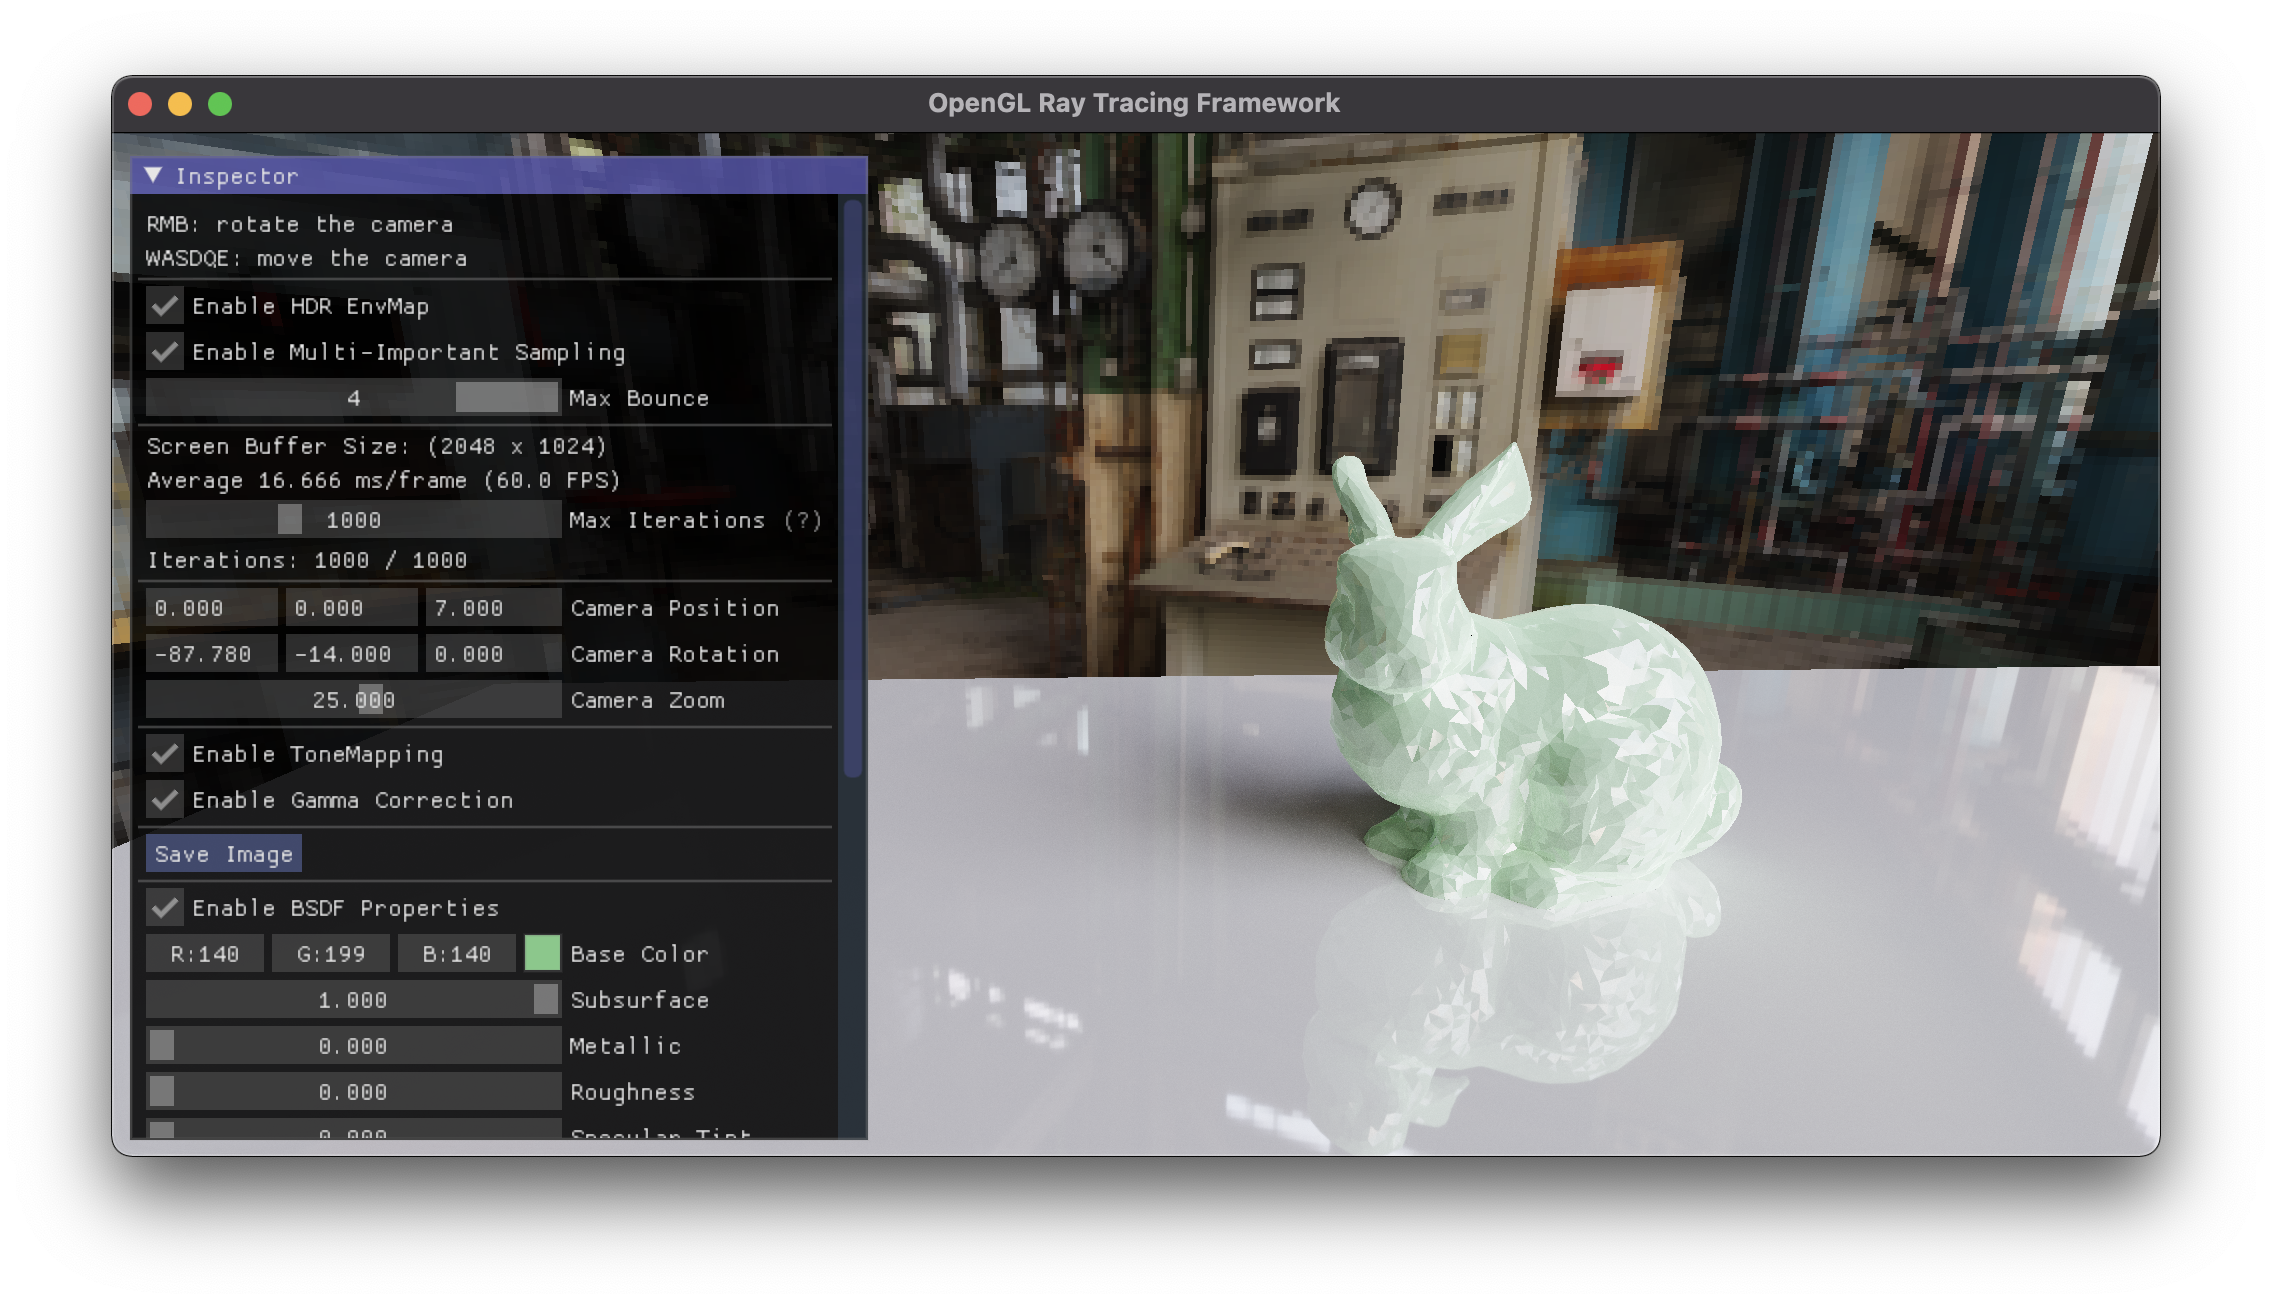
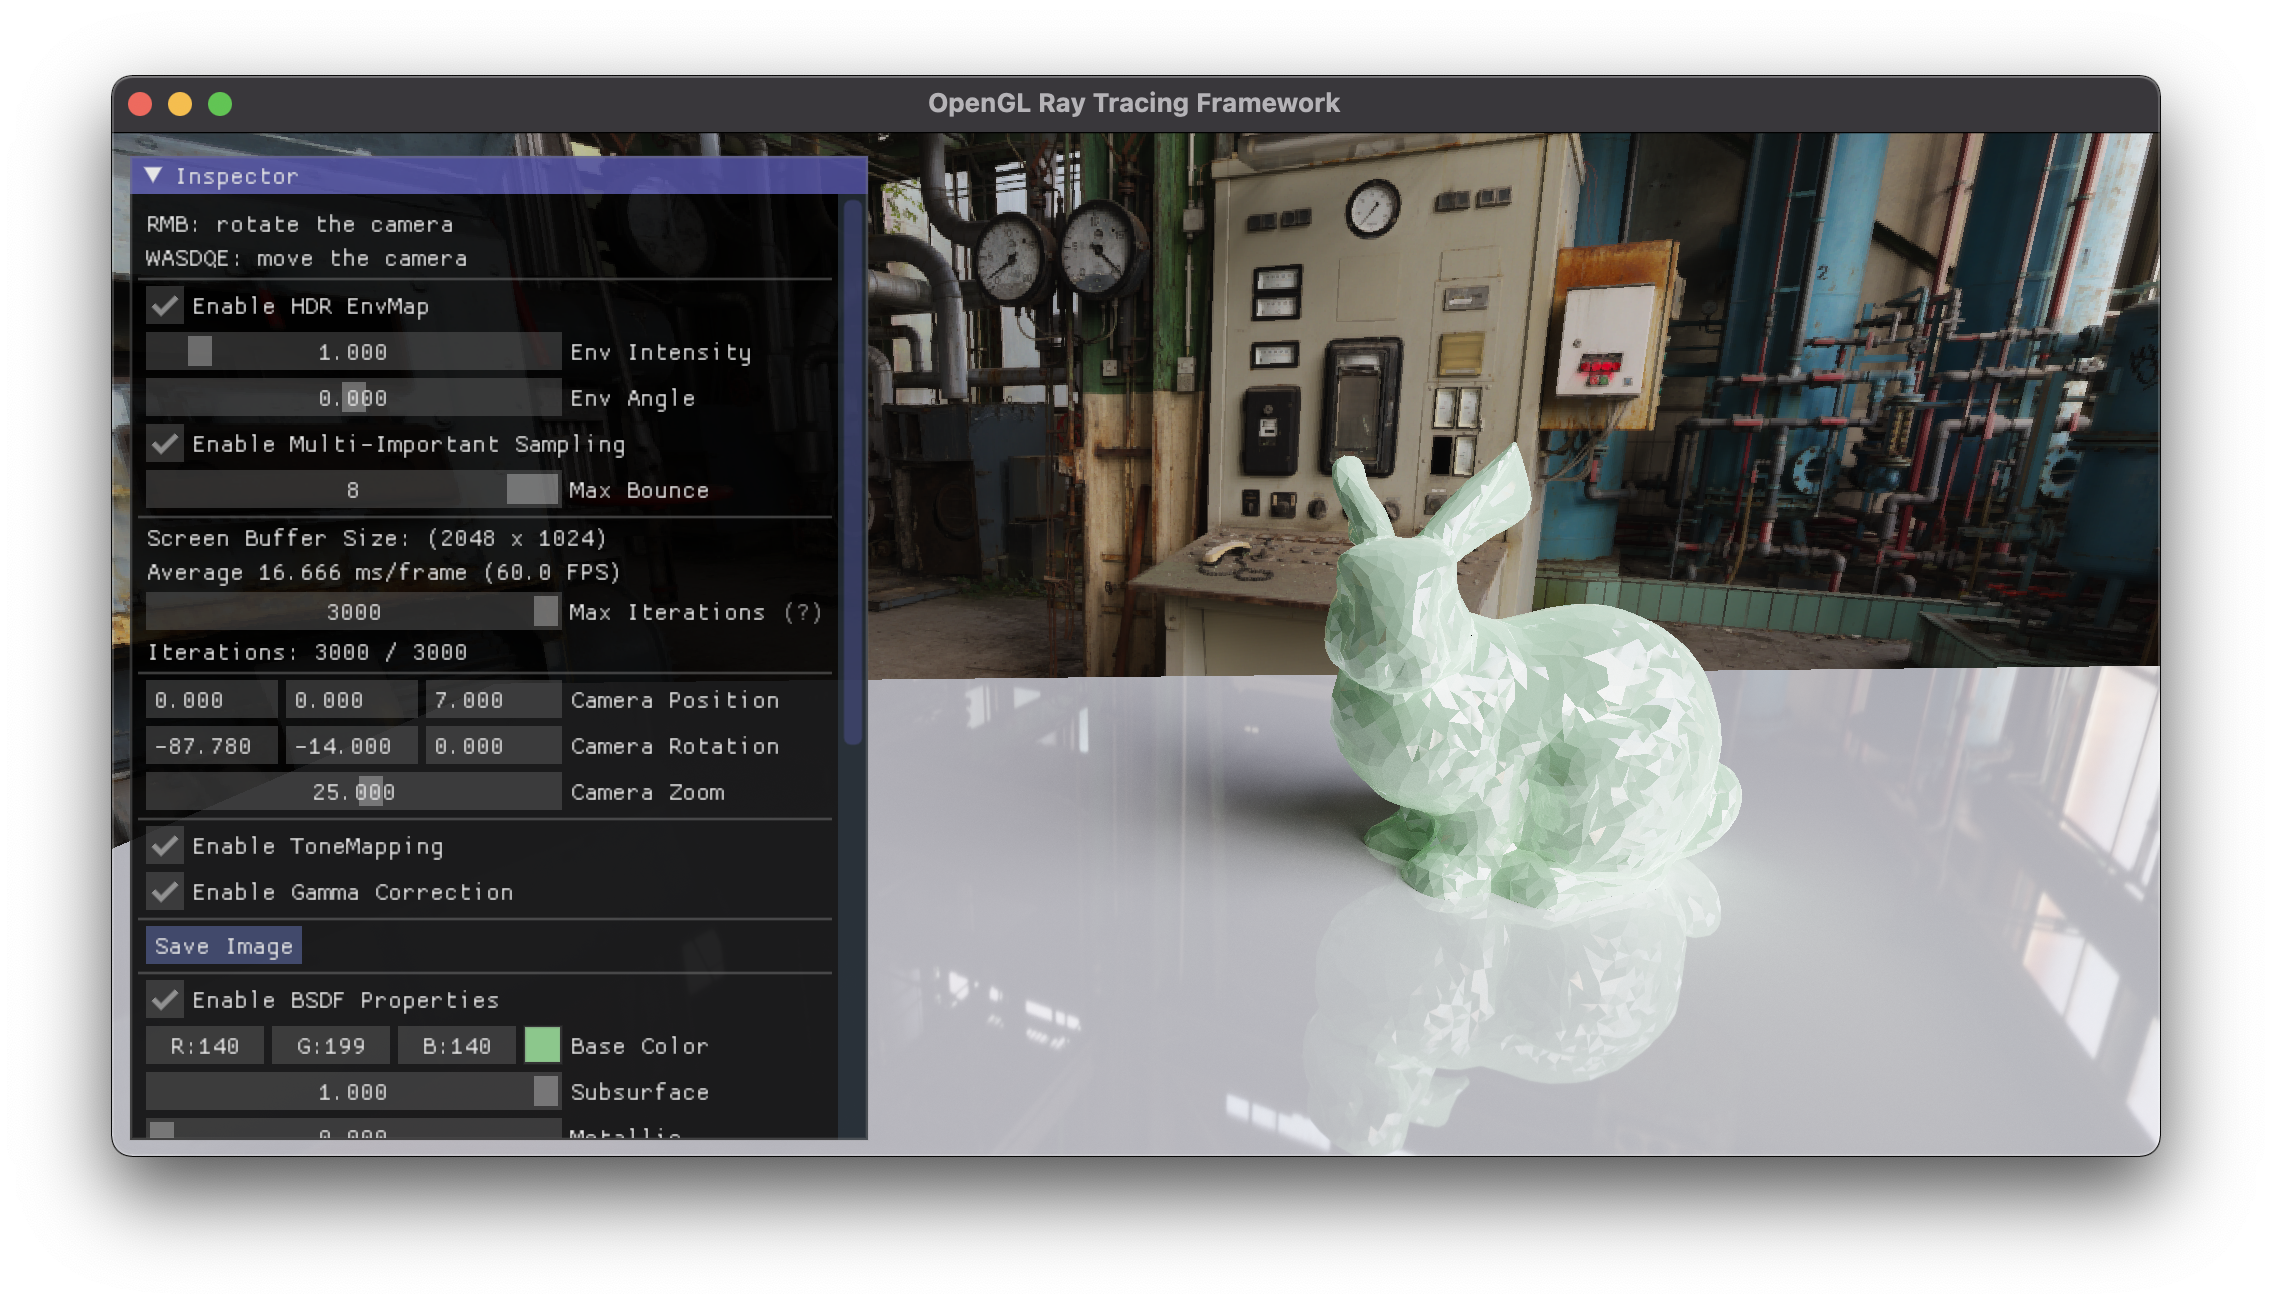
Get model triangle index in tbo

diff --git a/src/sources/main.cpp b/src/sources/main.cpp
@@ -27,6 +27,7 @@
 #include "Triangle.h"
 #include "BVH.h"
 #include "Utility.h"
+#include "GameObeject.h"
 
 #include "hdrloader.h"
 
@@ -129,6 +130,7 @@ int main() {
     // Encode Triangle Data
     // --------------------
     std::vector<Triangle_encoded> triangles_encoded(nTriangles);
+    triangles_encoded_ptr = &triangles_encoded;
     for (int i = 0; i < nTriangles; i++) {
         Triangle &t = triangles[i];
         Material &m = t.material;
@@ -154,6 +156,7 @@ int main() {
     // Encode BVHNode and AABB
     // -----------------------
     std::vector<BVHNode_encoded> nodes_encoded(nNodes);
+    nodes_encoded_ptr = &nodes_encoded;
     for (int i = 0; i < nNodes; i++) {
         nodes_encoded[i].childs = vec3(nodes[i].left, nodes[i].right, 0);
         nodes_encoded[i].leafInfo = vec3(nodes[i].n, nodes[i].index, 0);
@@ -163,20 +166,18 @@ int main() {
 
     // Triangle Texture Buffer
     // -----------------------
-    GLuint tbo0;
     glGenBuffers(1, &tbo0);
     glBindBuffer(GL_TEXTURE_BUFFER, tbo0);
-    glBufferData(GL_TEXTURE_BUFFER, triangles_encoded.size() * sizeof(Triangle_encoded), &triangles_encoded[0], GL_STATIC_DRAW);
+    glBufferData(GL_TEXTURE_BUFFER, triangles_encoded_ptr->size() * sizeof(Triangle_encoded), &triangles_encoded[0], GL_STATIC_DRAW);
     glGenTextures(1, &trianglesTextureBuffer);
     glBindTexture(GL_TEXTURE_BUFFER, trianglesTextureBuffer);
     glTexBuffer(GL_TEXTURE_BUFFER, GL_RGB32F, tbo0);
 
     // BVHNode Texture Buffer
     // -----------------------
-    GLuint tbo1;
     glGenBuffers(1, &tbo1);
     glBindBuffer(GL_TEXTURE_BUFFER, tbo1);
-    glBufferData(GL_TEXTURE_BUFFER, nodes_encoded.size() * sizeof(BVHNode_encoded), &nodes_encoded[0], GL_STATIC_DRAW);
+    glBufferData(GL_TEXTURE_BUFFER, nodes_encoded_ptr->size() * sizeof(BVHNode_encoded), &nodes_encoded[0], GL_STATIC_DRAW);
     glGenTextures(1, &nodesTextureBuffer);
     glBindTexture(GL_TEXTURE_BUFFER, nodesTextureBuffer);
     glTexBuffer(GL_TEXTURE_BUFFER, GL_RGB32F, tbo1);
@@ -427,6 +428,11 @@ void mouse_scroll_callback(GLFWwindow *window, double xoffset, double yoffset) {
     // camera.ProcessMouseScroll(static_cast<float>(yoffset));
 }
 
+void setDirty() {
+    RefreshTriangleMaterial(current_game_object.triangleIndex, triangles, *triangles_encoded_ptr, current_material, tbo0, trianglesTextureBuffer);
+    camera.LoopNum = 0;
+}
+
 void OnGUI(vector<Triangle_encoded> &triangles_encoded, GLuint tbo0) {
     ImGui_ImplOpenGL3_NewFrame();
     ImGui_ImplGlfw_NewFrame();
@@ -502,96 +508,78 @@ void OnGUI(vector<Triangle_encoded> &triangles_encoded, GLuint tbo0) {
     }
     if (ImGui::ColorEdit3("Base Color", baseColor)) {
         current_material.baseColor = vec3(baseColor[0], baseColor[1], baseColor[2]);
-        RefreshTriangleMaterial(triangles, triangles_encoded, current_material, tbo0, trianglesTextureBuffer);
-        camera.LoopNum = 0;
+        setDirty();
     }
     if (ImGui::SliderFloat("Subsurface", &subsurface, 0.0f, 1.0f)) {
         current_material.subsurface = subsurface;
-        RefreshTriangleMaterial(triangles, triangles_encoded, current_material, tbo0, trianglesTextureBuffer);
-        camera.LoopNum = 0;
+        setDirty();
     }
     if (ImGui::SliderFloat("Metallic", &metallic, 0.0f, 1.0f)) {
         current_material.metallic = metallic;
-        RefreshTriangleMaterial(triangles, triangles_encoded, current_material, tbo0, trianglesTextureBuffer);
-        camera.LoopNum = 0;
+        setDirty();
     }
     if (ImGui::SliderFloat("Roughness", &roughness, 0.0f, 1.0f)) {
         current_material.roughness = roughness;
-        RefreshTriangleMaterial(triangles, triangles_encoded, current_material, tbo0, trianglesTextureBuffer);
-        camera.LoopNum = 0;
+        setDirty();
     }
     if (!enableBSDF) {
         if (ImGui::SliderFloat("Specular", &specular, 0.0f, 1.0f)) {
             current_material.specular = specular;
-            RefreshTriangleMaterial(triangles, triangles_encoded, current_material, tbo0, trianglesTextureBuffer);
-            camera.LoopNum = 0;
+            setDirty();
         }
     }
     if (ImGui::SliderFloat("Specular Tint", &specularTint, 0.0f, 1.0f)) {
         current_material.specularTint = specularTint;
-        RefreshTriangleMaterial(triangles, triangles_encoded, current_material, tbo0, trianglesTextureBuffer);
-        camera.LoopNum = 0;
+        setDirty();
     }
     if (ImGui::SliderFloat("Anisotropic", &anisotropic, 0.0f, 1.0f)) {
         current_material.anisotropic = anisotropic;
-        RefreshTriangleMaterial(triangles, triangles_encoded, current_material, tbo0, trianglesTextureBuffer);
-        camera.LoopNum = 0;
+        setDirty();
     }
     if (ImGui::ColorEdit3("Emissive", emissive)) {
         current_material.emissive = vec3(emissive[0], emissive[1], emissive[2]);
-        RefreshTriangleMaterial(triangles, triangles_encoded, current_material, tbo0, trianglesTextureBuffer);
-        camera.LoopNum = 0;
+        setDirty();
     }
     if (ImGui::SliderFloat("Sheen", &sheen, 0.0f, 1.0f)) {
         current_material.sheen = sheen;
-        RefreshTriangleMaterial(triangles, triangles_encoded, current_material, tbo0, trianglesTextureBuffer);
-        camera.LoopNum = 0;
+        setDirty();
     }
     if (ImGui::SliderFloat("Sheen Tint", &sheenTint, 0.0f, 1.0f)) {
         current_material.sheenTint = sheenTint;
-        RefreshTriangleMaterial(triangles, triangles_encoded, current_material, tbo0, trianglesTextureBuffer);
-        camera.LoopNum = 0;
+        setDirty();
     }
     if (ImGui::SliderFloat("Clearcoat", &clearcoat, 0.0f, 1.0f)) {
         current_material.clearcoat = clearcoat;
-        RefreshTriangleMaterial(triangles, triangles_encoded, current_material, tbo0, trianglesTextureBuffer);
-        camera.LoopNum = 0;
+        setDirty();
     }
     if (ImGui::SliderFloat("Clearcoat Gloss", &clearcoatGloss, 0.0f, 1.0f)) {
         current_material.clearcoatGloss = clearcoatGloss;
-        RefreshTriangleMaterial(triangles, triangles_encoded, current_material, tbo0, trianglesTextureBuffer);
-        camera.LoopNum = 0;
+        setDirty();
     }
     if (enableBSDF) {
         if (ImGui::SliderFloat("IOR", &IOR, 0.001f, 2.45f)) {
             current_material.IOR = IOR;
-            RefreshTriangleMaterial(triangles, triangles_encoded, current_material, tbo0, trianglesTextureBuffer);
-            camera.LoopNum = 0;
+            setDirty();
         }
         if (ImGui::SliderFloat("Transmission", &transmission, 0.0f, 1.0f)) {
             current_material.transmission = transmission;
-            RefreshTriangleMaterial(triangles, triangles_encoded, current_material, tbo0, trianglesTextureBuffer);
-            camera.LoopNum = 0;
+            setDirty();
         }
         if (ImGui::Combo("Medium Type", &mediumType, "None\0Absorb\0Scatter\0Emissive\0\0")) {
             current_material.mediumType = (float) mediumType;
-            RefreshTriangleMaterial(triangles, triangles_encoded, current_material, tbo0, trianglesTextureBuffer);
-            camera.LoopNum = 0;
+            setDirty();
         }
         if (ImGui::ColorEdit3("Medium Color", mediumColor)) {
             current_material.mediumColor = vec3(mediumColor[0], mediumColor[1], mediumColor[2]);
-            RefreshTriangleMaterial(triangles, triangles_encoded, current_material, tbo0, trianglesTextureBuffer);
-            camera.LoopNum = 0;
+            setDirty();
         }
         if (ImGui::SliderFloat("Medium Density", &mediumDensity, 0, 1)) {
             current_material.mediumDensity = mediumDensity;
-            RefreshTriangleMaterial(triangles, triangles_encoded, current_material, tbo0, trianglesTextureBuffer);
-            camera.LoopNum = 0;
+            setDirty();
         }
         if (ImGui::SliderFloat("Medium Anisotropy", &mediumAnisotropy, 0, 1)) {
             current_material.mediumAnisotropy = mediumAnisotropy;
-            RefreshTriangleMaterial(triangles, triangles_encoded, current_material, tbo0, trianglesTextureBuffer);
-            camera.LoopNum = 0;
+            setDirty();
         }
     }
 

diff --git a/src/core/Scene.h b/src/core/Scene.h
@@ -17,6 +17,10 @@ Material tear_glass_emissive;
 
 Material current_material;
 
+GameObject go_sphere;
+GameObject go_panther;
+GameObject current_game_object;
+
 void InitMaterial();
 void InitMesh();
 void InitHdrEnvMap();
@@ -25,10 +29,11 @@ void InitScene() {
 
     InitMaterial();
 
-    current_material = tear_glass_emissive;
+    current_material = copper;
     SetGlobalMaterialProperty(current_material);
 
     InitMesh();
+    current_game_object = go_panther;
 
     nTriangles = triangles.size();
     std::cout << "Scene loading completed: " << nTriangles << " triangle faces in total" << std::endl;
@@ -108,9 +113,9 @@ void InitMesh() {
     // getTriangle(teapot.meshes, triangles, current_material,
     //             getTransformMatrix(vec3(0,0,0), vec3(2.6, -2.0, 3), vec3(2.5)), true);
 
-    Model sphere("../../resources/objects/sphere2.obj");
-    getTriangle(sphere.meshes, triangles, current_material,
-                getTransformMatrix(vec3(0, 90, 0), vec3(1.8, -1, 3), vec3(2)), true);
+    // Model sphere("../../resources/objects/sphere2.obj");
+    // go_sphere.triangleIndex = getTriangle(sphere.meshes, triangles, current_material,
+    //             getTransformMatrix(vec3(0, 90, 0), vec3(1.8, -1, 3), vec3(2)), true);
 
     // Model loong("../../resources/objects/loong.obj");        // 100000 face
     // getTriangle(loong.meshes, triangles, current_material,
@@ -121,9 +126,9 @@ void InitMesh() {
     // getTriangle(dragon.meshes, triangles, current_material,
     //             getTransformMatrix(vec3(0, 130, 0), vec3(-0.2, -1.8, 3), vec3(3)), true);
 
-    // Model panther("../../resources/objects/panther.obj");     // 831812 face
-    // getTriangle(panther.meshes, triangles, current_material,
-    //             getTransformMatrix(vec3(0, -30, 0), vec3(0.9, -2.1, 5), vec3(5)), true);
+    Model panther("../../resources/objects/panther_100000.obj");     // 100000 face
+    go_panther.triangleIndex = getTriangle(panther.meshes, triangles, current_material,
+                getTransformMatrix(vec3(0, -30, 0), vec3(0.8, -2.2, 5), vec3(4.5)), true);
 
     // Model boy_body("../../resources/objects/substance_boy/body.obj");
     // getTriangle(boy_body.meshes, triangles, current_material,
@@ -137,7 +142,8 @@ void InitMesh() {
 void InitHdrEnvMap() {
     // HDR Environment Map
     // -------------------
-    bool r = HDRLoader::load("../../resources/textures/hdr/peppermint_powerplant_1k.hdr", hdrRes);
+    // bool r = HDRLoader::load("../../resources/textures/hdr/peppermint_powerplant_1k.hdr", hdrRes);
+    bool r = HDRLoader::load("../../resources/textures/hdr/peppermint_powerplant_4k.hdr", hdrRes);
     // bool r = HDRLoader::load("../../resources/textures/hdr/sunset.hdr", hdrRes);
 
     hdrMap = getTextureRGB32F(hdrRes.width, hdrRes.height);

diff --git a/src/core/Triangle.h b/src/core/Triangle.h
@@ -14,6 +14,11 @@
 
 #include <vector>
 
+struct TriangleIndex {
+    int left;
+    int right;
+};
+
 struct Triangle {
     glm::vec3 p1, p2, p3;   // 顶点坐标
     glm::vec3 n1, n2, n3;   // 顶点法线
@@ -33,7 +38,7 @@ struct Triangle_encoded {
     glm::vec3 param5;        // offset:13 (mediumType, mediumDensity, mediumAnisotropy)
 };
 
-void getTriangle(std::vector<Mesh> &data, std::vector<Triangle> &triangles, Material material, mat4 trans, bool smoothNormal = false) {
+TriangleIndex getTriangle(std::vector<Mesh> &data, std::vector<Triangle> &triangles, Material material, mat4 trans, bool smoothNormal = false) {
     // 顶点位置，索引
     std::vector<vec3> vertices;
     std::vector<vec3> normals;
@@ -117,11 +122,17 @@ void getTriangle(std::vector<Mesh> &data, std::vector<Triangle> &triangles, Mate
         // 传材质
         t.material = material;
     }
+
+    TriangleIndex triangleIndex {};
+    triangleIndex.left = offset;
+    triangleIndex.right = triangles.size();
+
+    return triangleIndex;
 }
 
-void RefreshTriangleMaterial(vector<Triangle> &triangles, vector<Triangle_encoded> &triangles_encoded, Material m, GLuint tbo, GLuint textureBuffer) {
+void RefreshTriangleMaterial(TriangleIndex triangleIndex, vector<Triangle> &triangles, vector<Triangle_encoded> &triangles_encoded, Material m, GLuint tbo, GLuint textureBuffer) {
     int n = triangles.size();
-    for (int i = 1; i < n-1; i++) {
+    for (int i = triangleIndex.left; i < triangleIndex.right-1; i++) {
         Triangle &t = triangles[i];
         t.material = m;
         triangles_encoded[i].emissive = m.emissive;

diff --git a/src/core/RenderSettings.h b/src/core/RenderSettings.h
@@ -48,6 +48,9 @@ std::vector<Triangle> triangles;
 // Triangle Texture Buffer Data
 GLuint trianglesTextureBuffer;
 
+std::vector<Triangle_encoded> *triangles_encoded_ptr;
+std::vector<BVHNode_encoded> *nodes_encoded_ptr;
+
 int nNodes;
 
 // BVH Node Texture Buffer Data
@@ -58,6 +61,10 @@ GLuint hdrMap;
 GLuint hdrCache;
 HDRLoaderResult hdrRes;
 int hdrResolution;
+
+
+GLuint tbo0;
+GLuint tbo1;
 
 // Compute Shader Output Image
 GLuint tex_output;

diff --git a/src/core/GameObeject.h b/src/core/GameObeject.h
@@ -1,0 +1,14 @@
+//
+// Created by George Huan on 2022/10/30.
+//
+
+#ifndef GAMEOBEJECT_H
+#define GAMEOBEJECT_H
+
+class GameObject {
+public:
+    TriangleIndex triangleIndex;
+    GameObject() { }
+};
+
+#endif //OGAMEOBEJECT_H
